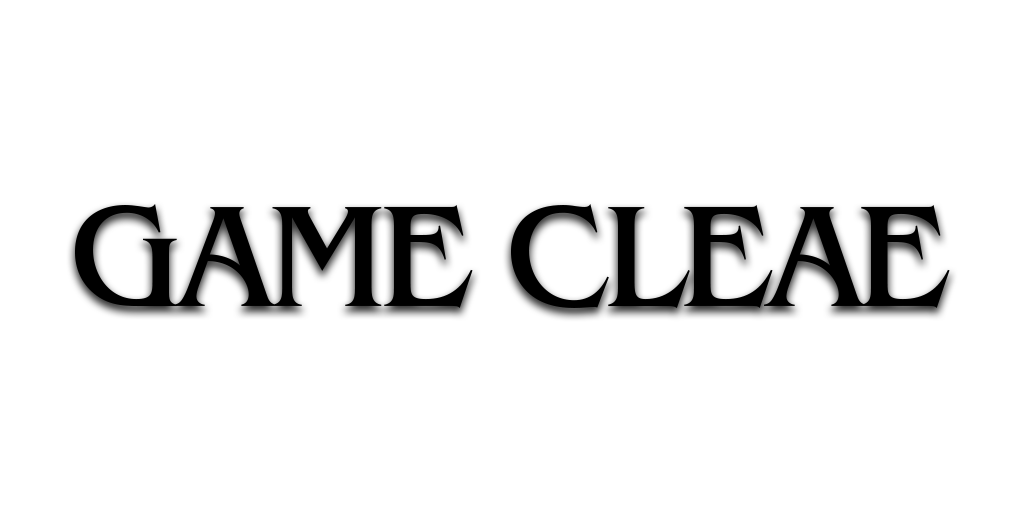
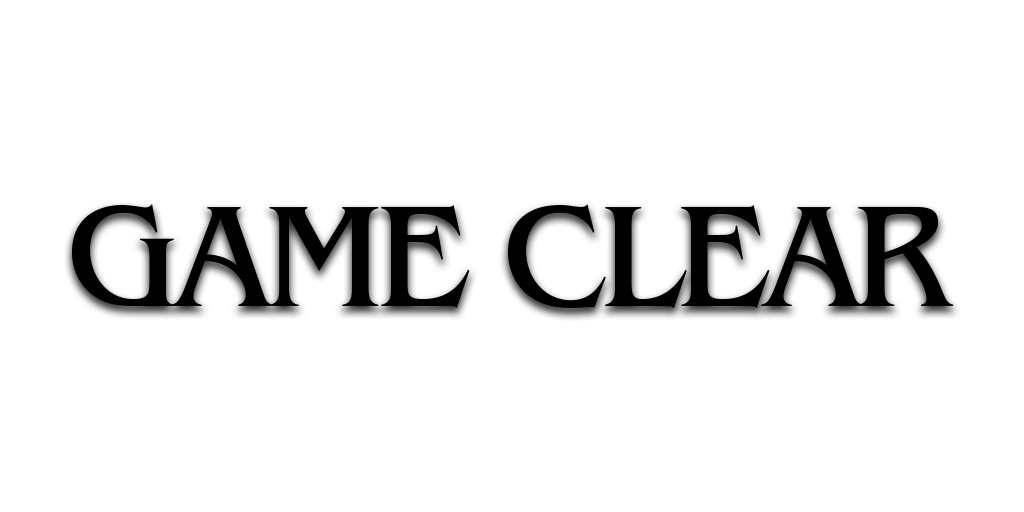
Seki
Fixed_MenuEnding

Changed region(s): [[0.4375, 0.4062, 0.9375, 0.625], [0.0625, 0.4062, 0.4688, 0.625]]

diff --git a/Assets/Scripts/SystemLibrary/Part/PartMainGame.cs b/Assets/Scripts/SystemLibrary/Part/PartMainGame.cs
@@ -135,7 +135,8 @@ public class PartMainGame : PartBase {
                 break;
             case eStageState.Stage3:
                 await FadeManager.Instance.FadeOut();
-                CharacterUtility.UnusePlayer();
+                UnusePlayer();
+                MenuManager.Instance.Get<MenuEnding>().SetGameClear(true);
                 await PartManager.Instance.TransitionPart(eGamePart.Ending);
                 break;
         }
